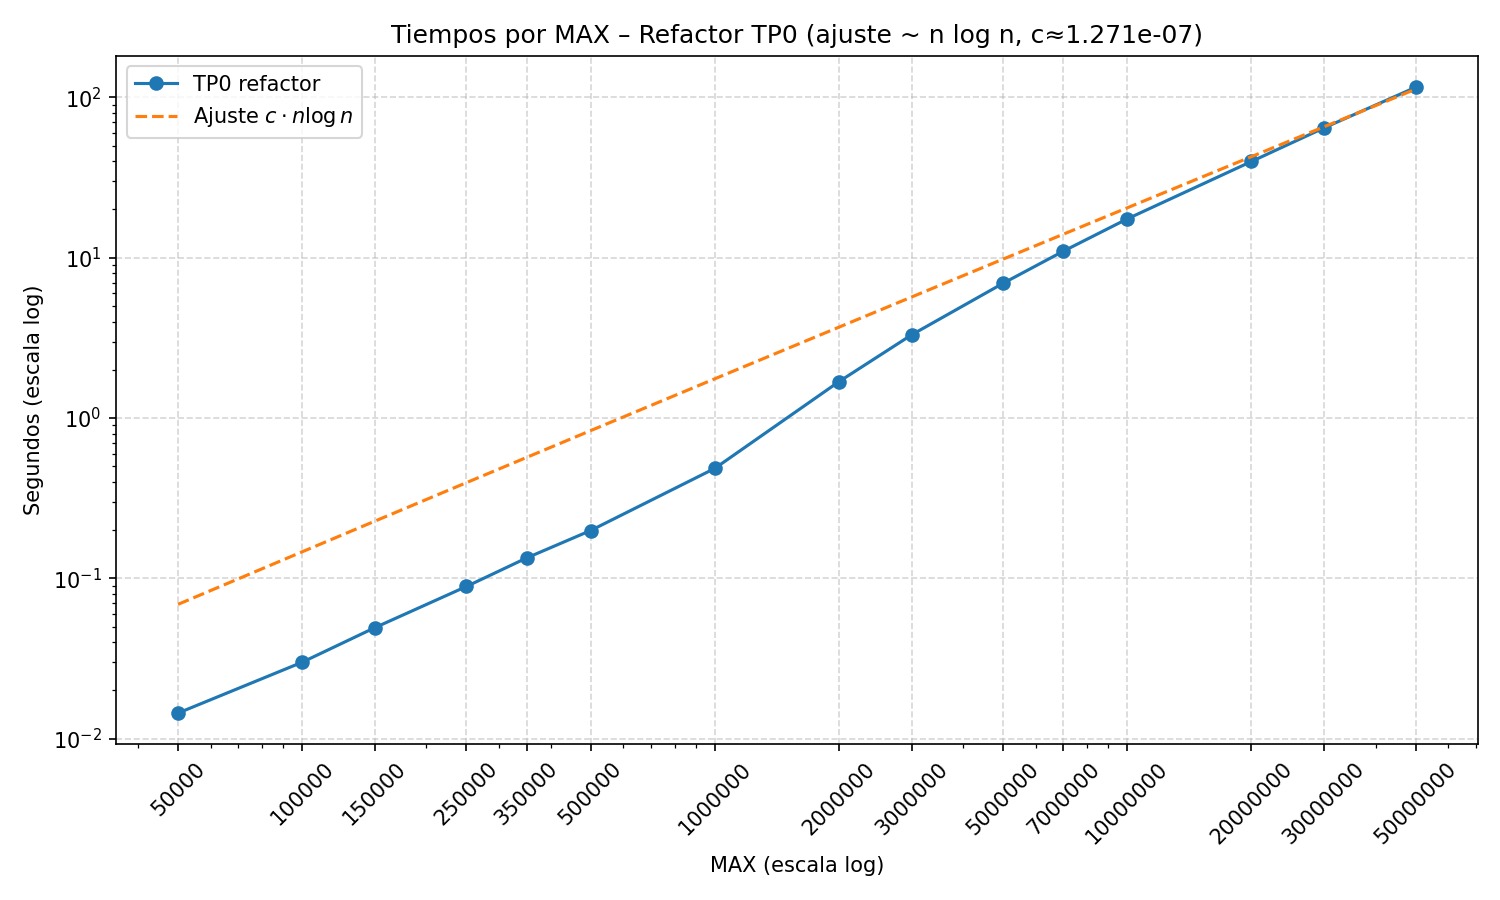
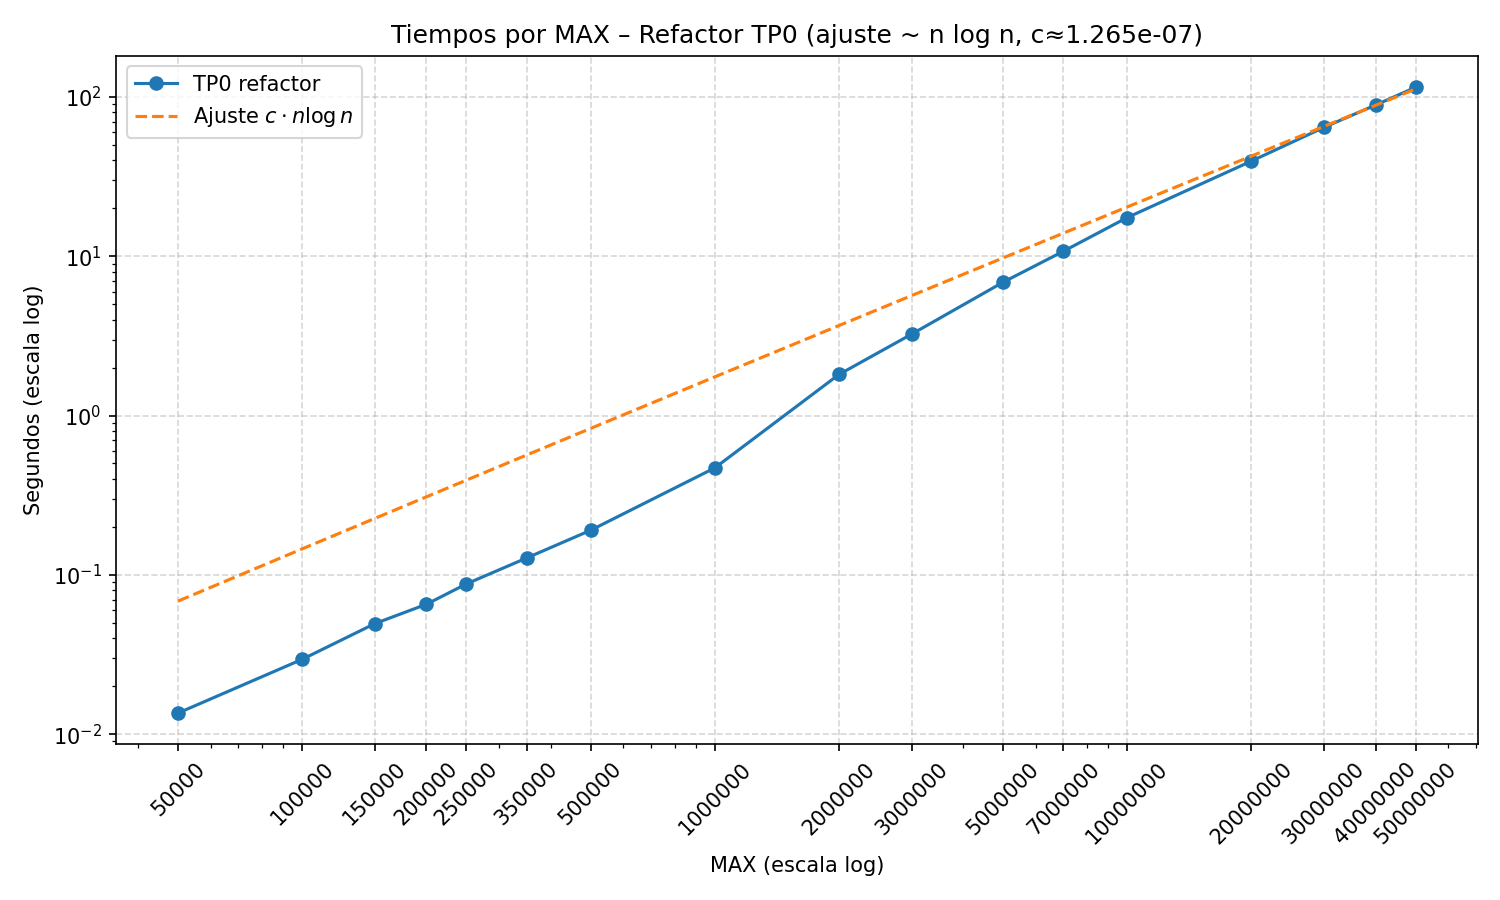
mejora codigo iniciar en 1

diff --git a/TP0_numeros_amigos/src/codigo_para_informe.py b/TP0_numeros_amigos/src/codigo_para_informe.py
@@ -6,8 +6,10 @@ import matplotlib.pyplot as plt
 import math
 
 def sumas_divisores_propios(MAX: int) -> list[int]:
-    sums = [0] * (MAX + 1)
-    for d in range(1, MAX // 2 + 1):
+    sums = [1] * (MAX + 1)
+    sums[0]=0
+    sums[1]=0
+    for d in range(2, MAX // 2 + 1):
         for m in range(2 * d, MAX + 1, d):
             sums[m] += d
     return sums
@@ -41,7 +43,7 @@ def amigos(MAX: int):
     salida = []
     for a, b in pares:
         salida.append(f"{a} {b}")
-    salida.append(f"Tiempo de cómputo: {t2 - t1:.6f} s")
+    salida.append(f"Tiempo: {t2 - t1:.6f} s")
     return "\n".join(salida)
 
 def crear_corridas(max_values):
@@ -55,14 +57,13 @@ def crear_corridas(max_values):
         filename = os.path.join(carpeta, f"{m}_refactor_amigos.txt")
         with open(filename, "w", encoding="utf-8") as f:
             f.write(resultado)
-        print(f"Resultados guardados en {filename}")
         del resultado
         gc.collect()
 
 def crear_graficos_tiempo(max_values):
     carpeta = "TP0_numeros_amigos/corridas"
     xs, ys = [], []
-    patron = re.compile(r"Tiempo de cómputo:\s*([0-9]+(?:\.[0-9]+)?)\s*s")
+    patron = re.compile(r"Tiempo:\s*([0-9]+(?:\.[0-9]+)?)\s*s")
     for m in max_values:
         fname = os.path.join(carpeta, f"{m}_refactor_amigos.txt")
         try:
@@ -105,7 +106,7 @@ def crear_graficos_tiempo(max_values):
     
 
 
-max_values = [50000, 100000,150000,250000,350000,500000,1000000,2000000,3000000,5000000,7000000,10000000,20000000,30000000,50000000]
-#max_values = [40000000]
+max_values = [50000, 100000,150000,200000,250000,350000,500000,1000000,2000000,3000000,5000000,7000000,10000000,20000000,30000000,40000000,50000000]
+#max_values = [50000, 100000,150000,250000,350000,500000,1000000]
 #crear_corridas(max_values)
 crear_graficos_tiempo(max_values)

diff --git a/TP0_numeros_amigos/src/TP0.py b/TP0_numeros_amigos/src/TP0.py
@@ -1,8 +1,10 @@
 import time
 
 def sumas_divisores_propios(MAX: int) -> list[int]:
-    sums = [0] * (MAX + 1)
-    for d in range(1, MAX // 2 + 1):
+    sums = [1] * (MAX + 1)
+    sums[0]=0
+    sums[1]=0
+    for d in range(2, MAX // 2 + 1):
         for m in range(2 * d, MAX + 1, d):
             sums[m] += d
     return sums
@@ -31,12 +33,10 @@ def amigos(MAX: int):
                 vis[b] = 1
 
     t2 = time.time()
-    print(t2 - t1)
 
-    salida = []
     for a, b in pares:
-        salida.append(f"{a} {b}")
-    salida.append(f"Tiempo de cómputo: {t2 - t1:.6f} s")
-    return "\n".join(salida)
+        print(a, b)
+        
+    print(f"{t2 - t1:.6f}")
 
-amigos(100000)
+amigos(1000000)

diff --git a/TP0_numeros_amigos/src/codigo_original.py b/TP0_numeros_amigos/src/codigo_original.py
@@ -17,4 +17,4 @@ def amigos(MAX):
     t2=time.time()    
     print(t2-t1)
 
-amigos(100000)
+amigos(150000)
